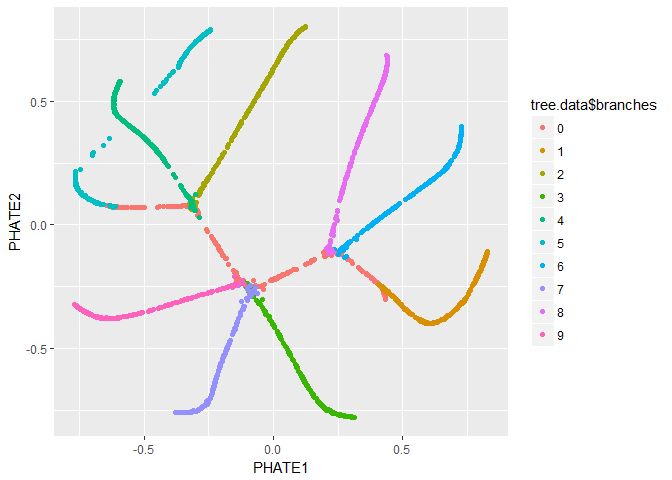
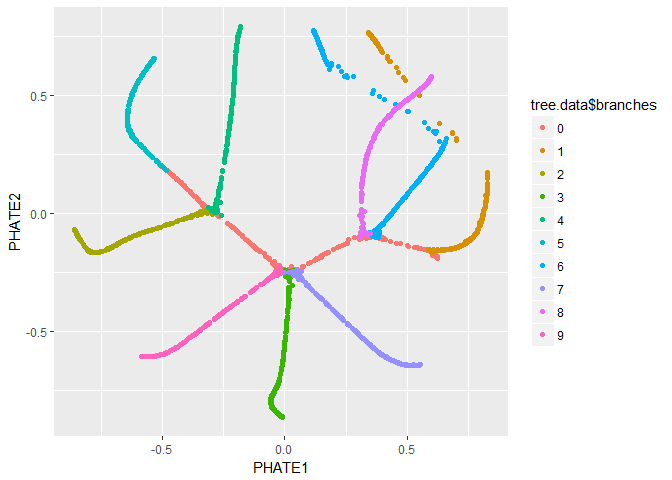
set default landmarks to 2000, don't include self in k

diff --git a/README.md b/README.md
@@ -73,17 +73,18 @@ default parameters.
 # runs phate
 tree.phate <- phate(tree.data$data)
 #> Calculating kernel...
-#> Calculated kernel in 2.4 secs.
+#> Calculated kernel in 5.5 secs.
 #> Calculating diffusion operator...
-#> Calculated diffusion operator in 7.1 secs.
+#> Calculated diffusion operator in 17.4 secs.
 #> Calculating diffusion potential...
-#> Calculated diffusion potential in 7.2 secs.
+#> Automatically selected t = 11
+#> Calculated diffusion potential in 2 mins.
 #> Embedding metric MDS...
-#> Calculated MDS in 38.3 secs.
-#> Embedded PHATE in 55 secs.
+#> Calculated MDS in 7.6 mins.
+#> Embedded PHATE in 10 mins.
 summary(tree.phate)
 #> PHATE embedding
-#> k = 5, alpha = NA, t = 13
+#> k = 5, alpha = NA, t = 11
 #> Data: (3000, 100)
 #> Embedding: (3000, 2)
 ```
@@ -114,10 +115,10 @@ tree.phate <- phate(tree.data$data, potential.method='sqrt', t=90, init=tree.pha
 #> Using precomputed kernel...
 #> Using precomputed diffusion operator...
 #> Calculating diffusion potential...
-#> Calculated diffusion potential in 6.8 secs.
+#> Calculated diffusion potential in 2.4 mins.
 #> Embedding metric MDS...
-#> Calculated MDS in 43.3 secs.
-#> Embedded PHATE in 50.1 secs.
+#> Calculated MDS in 6.7 mins.
+#> Embedded PHATE in 9.1 mins.
 # plot embedding
 palette(rainbow(10))
 plot(tree.phate, col = tree.data$branches)
